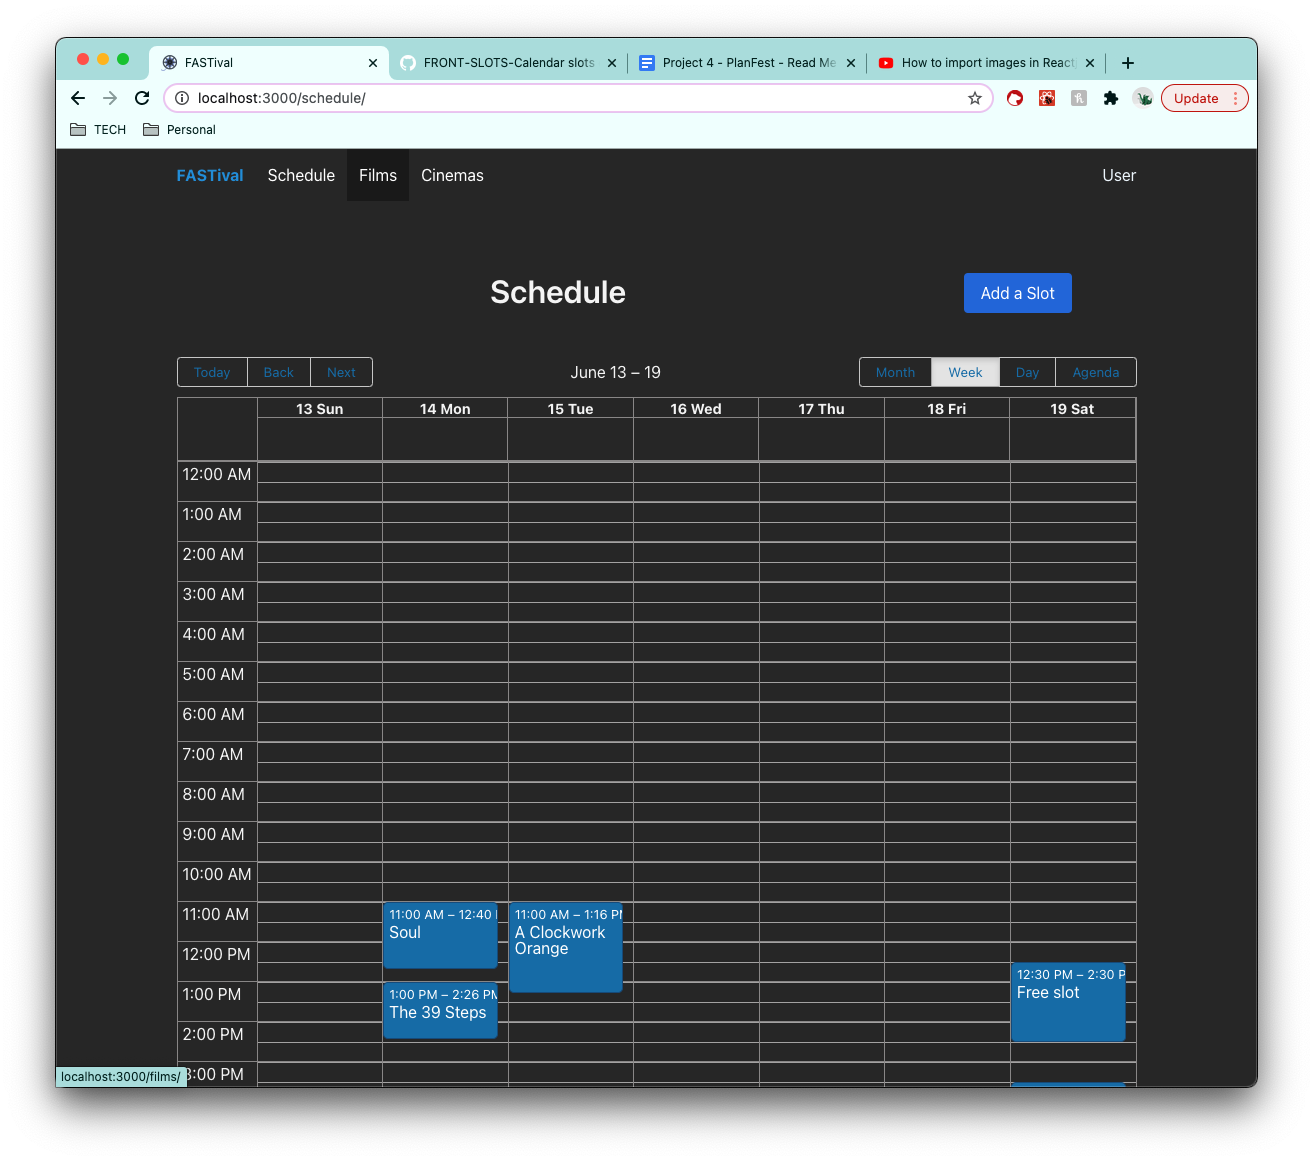
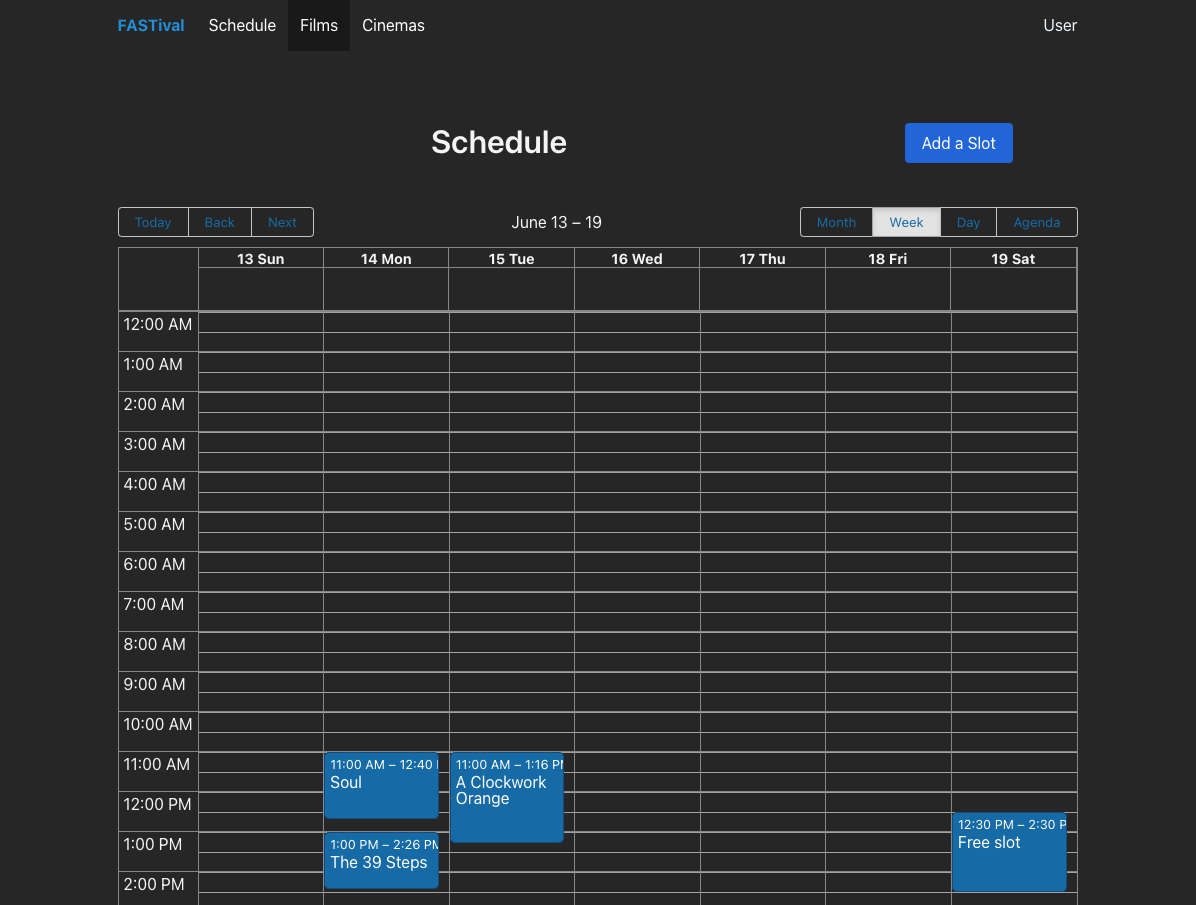
Add images to README

diff --git a/README.md b/README.md
@@ -73,18 +73,36 @@ This is the fourth (and last) project in the General Assembly Software Engineeri
 ### Prerequisites
 
 The website is mobile friendly and the user can access it through the browser. 
-#### Programming Staff
+#### User experience
 
-Logged in users can create screening slots representing contracted venue hires in place, upload film information based on accepted titles, and schedule these across the available slots. 
+Non-logged in staff can easily consult the scheduling updates at a glance by accessing the film list and screening schedule without needing to log in. 
 
-If a slot must be moved, it can be done so easiley by double clicking it and editing the times and/or cinema. 
+![home page](https://github.com/HotSauceNinja/SEI-Project-4-FASTival/blob/main/README%20images/Home_page.gif?raw=true)
+
+However, only logged in staff can make changes to the database and the schedule:
+
+![register user](https://github.com/HotSauceNinja/SEI-Project-4-FASTival/blob/main/README%20images/register_user.gif?raw=true)
+
+Logged in users can create screening slots representing contracted venue hires in place, upload film information based on accepted titles, and schedule these across the available slots. The Screening Schedule can be viewed in multiple formats:
+
+![schedule views](https://github.com/HotSauceNinja/SEI-Project-4-FASTival/blob/main/README%20images/schedule_views.gif?raw=true)
+
+Users can create films and allocate them to slots:
+
+![Add film](https://github.com/HotSauceNinja/SEI-Project-4-FASTival/blob/main/README%20images/Add_film.gif?raw=true)
+
+If a slot must be modified, it can be done so easiley by double clicking it and editing the film, times and/or cinema. 
+
+![Change Film](https://github.com/HotSauceNinja/SEI-Project-4-FASTival/blob/main/README%20images/change_film.gif?raw=true)
 
 If a film is deleted, its scheduling slot is reset to a vacant slot. This can be repopulated once a different title is chosen.
 
-#### Other Staff
-Non-logged in staff can easily consult the scheduling updates at a glance by accessing the film list and screening schedule without needing to log in. 
+![delete film](#link)
 
-However, only logged in staff can make changes to the database and the schedule.
+A user can also view cinemas and the screening slots each hosts:
+
+![cinemas](https://github.com/HotSauceNinja/SEI-Project-4-FASTival/blob/main/README%20images/Cinemas.gif?raw=true)
+
 
 ---
 # Project Development
@@ -93,7 +111,7 @@ I first set up a Django project and created the FASTival django database.
 
 I then started creating my models, based on the ERD Diagram drafted when pitching the project. 
 
-![ERD Diagram](#link)
+![ERD Diagram](https://github.com/HotSauceNinja/SEI-Project-4-FASTival/blob/main/README%20images/ERD.png?raw=true)
 
 ### The User model
 I created a new folder, jwt_auth, and added 'jwt_auth' to my installed apps within the settings.py file in project folder, and linked it to the User model within the same folder:
@@ -132,7 +150,7 @@ admin.site.register(User)
 And tested everything works fine by running the server with <code>pythong manage.py runserver</code> and visiting the admin app `localhost:8000/admin`. 
 I should be able to log in with my super user, but I had not created this when I set up the project, I can easily do so now by typing the following command in Terminal: <code>python manage.py createsuperuser</code> and filling the options required.
 
-![log in to CMS](#link)
+![log in to CMS](https://github.com/HotSauceNinja/SEI-Project-4-FASTival/blob/main/README%20images/django_admin.png?raw=true)
 ### Authentication
 Because I needed users to be able to register via the API, I added the Python Json Web Token package:  <code>pipenv install pyjwt</code>
 
@@ -269,6 +287,9 @@ class Film(models.Model):
     def __str__(self):
         return f"{self.title} - {self.director}"
 ```
+And here it is viewed in Insomnia:
+
+![film object](https://github.com/HotSauceNinja/SEI-Project-4-FASTival/blob/main/README%20images/film_object.png?raw=true)
 
 ### Implementing relationships
 #### One to Many
@@ -435,7 +456,7 @@ I also restricted adding films to authenticated users only, and editing and dele
 ### Forms
 Getting my forms to fully function was by far the biggest challenge of this project. I will outline below the part which I found the most challenging.
 
-I decided to use [React Select](#link) to allow a user to select more than one genre when creating or editing a film. In implementing this into my FilmForm, I added a genre select option:
+I decided to use [React Select](https://react-select.com/home) to allow a user to select more than one genre when creating or editing a film. In implementing this into my FilmForm, I added a genre select option:
 ```
 const genreSelectOptions = [
   { value: 1, label: 'Thriller' },
@@ -472,7 +493,11 @@ And included both in my returned JSX:
             </div>
             {errors && <p className="help is-danger">{errors.genre}</p>}
 ```
-However, having this select form in place along with a many to many relationship between genres and films meant that my data object was taking a different shape when it arrived in my FilmEdit, so I had to find a way to reformat the data before sending it into handleSubmit, to ensure data is in the format required when sending the request:
+However, having this select form in place along with a many to many relationship between genres and films meant that my data object was taking a different shape when it arrived in my FilmEdit, which generated the following error: 
+
+![console log pk error](https://github.com/HotSauceNinja/SEI-Project-4-FASTival/blob/main/README%20images/console_log_pk_error.png?raw=true)
+
+The solution meant finding a way to reformat the data before sending it into handleSubmit, to ensure data is in the format required when sending the request:
 ```
  const handleSubmit = async event => {
    event.preventDefault()
@@ -498,7 +523,9 @@ However, having this select form in place along with a many to many relationship
  }
 ```
 ### Scheduling
-The Scheduling was what I thought of as my most complex component. My plan involved getting all the scheduling slots ( either free or with their linked film), importing the React Big Calendar and then showing all the slots within this.
+The Scheduling was what I thought of as my most complex component. My plan involved getting all the scheduling slots (either free or with their linked film), importing the React Big Calendar and then showing all the slots within this.
+
+![styled calendar](https://github.com/HotSauceNinja/SEI-Project-4-FASTival/blob/main/README%20images/styled_claendar.png?raw=true)
 
 I took the following steps:
 * Imported moment for time localization
@@ -647,8 +674,6 @@ Further implementations could include:
 * Adding functionality so that users can edit and add genres and sections
 * Adding types of users with different levels of permission
 ---
-## Contributors
-* [Sandra Spighel](https://www.linkedin.com/in/sandraspighel/)
 ## Contributing to this project
 If you have suggestions for improving this project, please [open an issue on GitHub] (https://github.com/HotSauceNinja/SEI-Project-4)
 ## License & copyright
